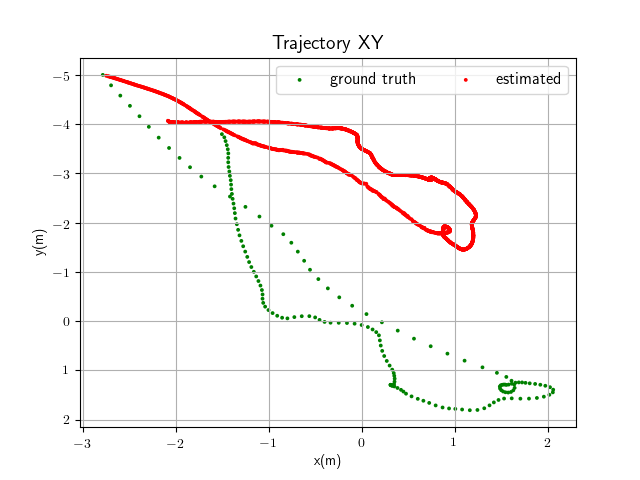
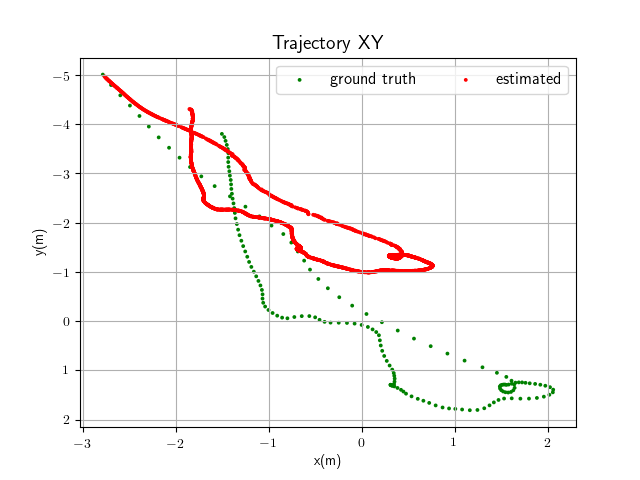
update graphs

diff --git a/script/plot3D.py b/script/plot3D.py
@@ -11,6 +11,7 @@ matplotlib.rcParams['text.usetex'] = True
 import matplotlib.pyplot as plt
 from mpl_toolkits.mplot3d import Axes3D
 import numpy as np
+import math as math
 from math import asin, sqrt
 
 
@@ -44,6 +45,24 @@ v_max = 0.3
 dv = 0.1
 '''
 	
+# Calculates Rotation Matrix given euler angles.
+
+def eulerAnglesToRotationMatrix(theta):
+    R_x = np.array([[1,         0,                  0                   ],
+                    [0,         math.cos(theta[0]), -math.sin(theta[0]) ],
+	                [0,         math.sin(theta[0]), math.cos(theta[0])  ]])
+    
+    R_y = np.array([[math.cos(theta[1]),    0,      math.sin(theta[1])  ],
+	                [0,                     1,      0                   ],
+	                [-math.sin(theta[1]),   0,      math.cos(theta[1])  ]])
+
+    R_z = np.array([[math.cos(theta[2]),    -math.sin(theta[2]),    0],
+                    [math.sin(theta[2]),    math.cos(theta[2]),     0],
+	                [0,                     0,                      1]])
+
+    R = np.dot(R_z, np.dot( R_y, R_x ))
+	 
+    return R
 
 def plotTrajectory(traj_gt, traj_es, labelx, labely):
     # Data to plot
@@ -127,11 +146,18 @@ if __name__ == '__main__':
 
     traj_grt = readTrajectory(filepath1)
     traj_est = readTrajectory(filepath2)
-    traj_est[:,2] = -traj_est[:,2]
-    traj_est[:,0:3] = traj_est[:,0:3] + traj_grt[0,0:3]
+    #traj_est[:,2] = -traj_est[:,2]
     
+
+    theta = np.array([0,math.pi,-math.pi/2])
+    R = eulerAnglesToRotationMatrix(theta)
+    for k in range(0, traj_est[:,0].size):
+        #print(k)
+        traj_est[k,0:3] = np.matmul(R,traj_est[k,0:3])
+
     '''
 	'''    	
+    traj_est[:,0:3] = traj_est[:,0:3] + traj_grt[0,0:3]
     print(traj_grt[2,:])
     plotTrajectory(traj_grt, traj_est, 'x(m)', 'y(m)')
     #plotTetherShape("tethershape.eps",sest)

diff --git a/README.md b/README.md
@@ -1,0 +1,13 @@
+# cv_assignment
+
+This code implements a localization algorithm based on ORB-SLAM 2 and tested with the AQUALOC dataset
+
+## Install
+
+This code was tested on:
+
+1. Ubuntu 18.04
+2. ROS Melodic
+
+Instructions to install ORB-SLAM 2:
+[https://github.com/appliedAI-Initiative/orb_slam_2_ros](https://github.com/appliedAI-Initiative/orb_slam_2_ros)
